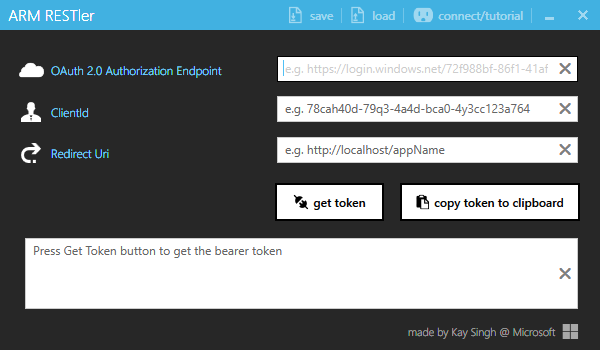
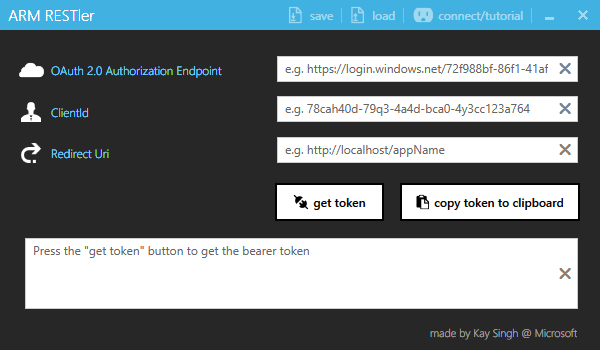
Bug fixes

Changed region(s): [[0.45, 0.1714, 0.93, 0.2286], [0.09, 0.6857, 0.51, 0.7429], [0.66, 0.9143, 0.96, 0.9714]]

diff --git a/ARMRESTler/MainWindow.xaml b/ARMRESTler/MainWindow.xaml
@@ -133,7 +133,6 @@
                  Height="23"
                  Margin="277,26,0,0"
                  TextWrapping="NoWrap"
-                 Text=""
                  VerticalAlignment="Top"
                  Width="301"
                  Controls:TextBoxHelper.Watermark="e.g. https://login.windows.net/72f988bf-86f1-41af-91ab-2d7cd011db47/oauth2/authorize?api-version=1.0"
@@ -145,7 +144,6 @@
                  Height="23"
                  Margin="277,66,0,0"
                  TextWrapping="NoWrap"
-                 Text=""
                  VerticalAlignment="Top"
                  Width="301"
                  Controls:TextBoxHelper.Watermark="e.g. 78cah40d-79q3-4a4d-bca0-4y3cc123a764"
@@ -157,7 +155,6 @@
                  Height="23"
                  Margin="277,107,0,0"
                  TextWrapping="NoWrap"
-                 Text=""
                  VerticalAlignment="Top"
                  Width="301"
                  Controls:TextBoxHelper.Watermark="e.g. http://localhost/appName"
@@ -228,26 +225,14 @@
 
         </Button>
         <Label HorizontalAlignment="Left"
-               Margin="403,289,0,0"
+               Margin="425,290,0,0"
                VerticalAlignment="Top"
-               Width="190"
+               Width="157"
                Foreground="#FFA8A8A8"
                FontFamily="{DynamicResource Label_FontFamily}"
-               FontSize="11">
-            <StackPanel Orientation="Horizontal">
-
-                <TextBlock VerticalAlignment="Center"
-                           Text="made by Kay Singh @ Microsoft" />
-                <Rectangle Width="16"
-                           Height="15"
-                           Fill="#FFA8A8A8"
-                           Margin="7 0 0 0">
-                    <Rectangle.OpacityMask>
-                        <VisualBrush Stretch="Fill"
-                                     Visual="{StaticResource appbar_social_microsoft}" />
-                    </Rectangle.OpacityMask>
-                </Rectangle>
-            </StackPanel>
+               FontSize="11"
+               Content="made by Kay Singh @ Microsoft">
+    
         </Label>
     </Grid>
 
